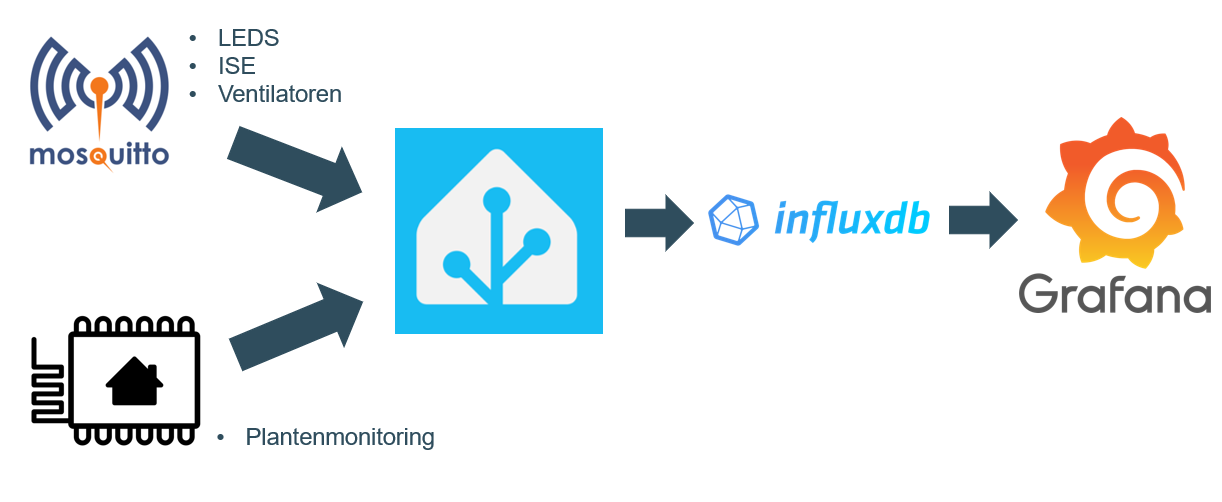
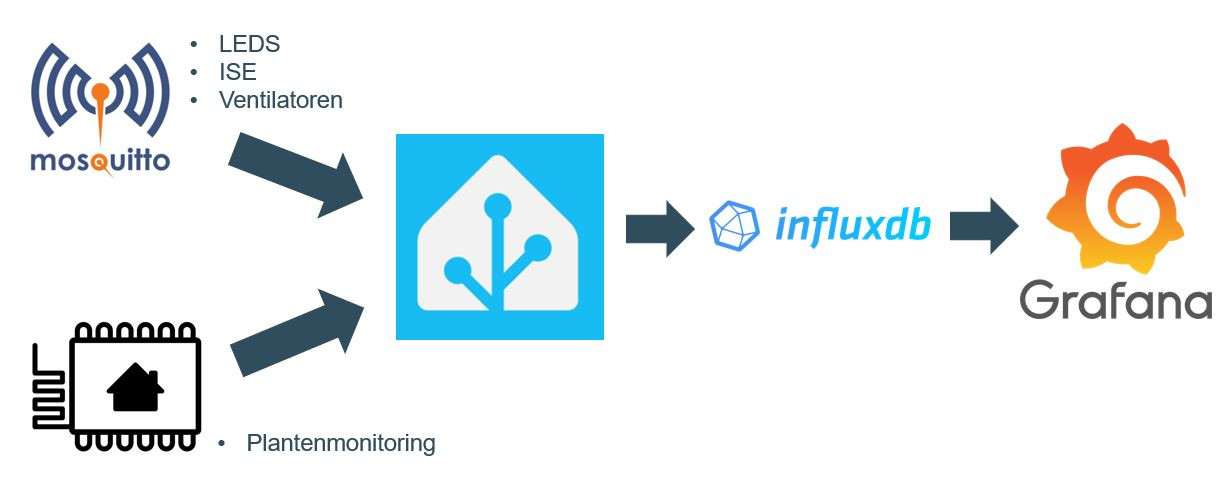
New pictures

diff --git a/inhoud/dashboard/index.md b/inhoud/dashboard/index.md
@@ -10,7 +10,7 @@ title: Dashboard
 
 To get a dashboard with all our measerments we needed to connect all our devices. In the picture below we show how that works. You can see that all the actuators are using MQTT to get their data and also send data on topics. This is then send to our HomeAssistant that is used as a central gathering place for all the data. The data from our plantsensors is send to HomeAssistant with ESPHome, but there are also topics in MQTT for these parameters. Then all the data is stored in a database. We used influxdb as database. This in turn is linked to Grafana where we can diplay our data, calculate things, etc.
 
-<img src="Pictures/Connections.PNG" alt="drawing" width="500"/>
+<img src="Pictures/Connections.png" alt="drawing" width="500"/>
 
 # Home Assistant
 
